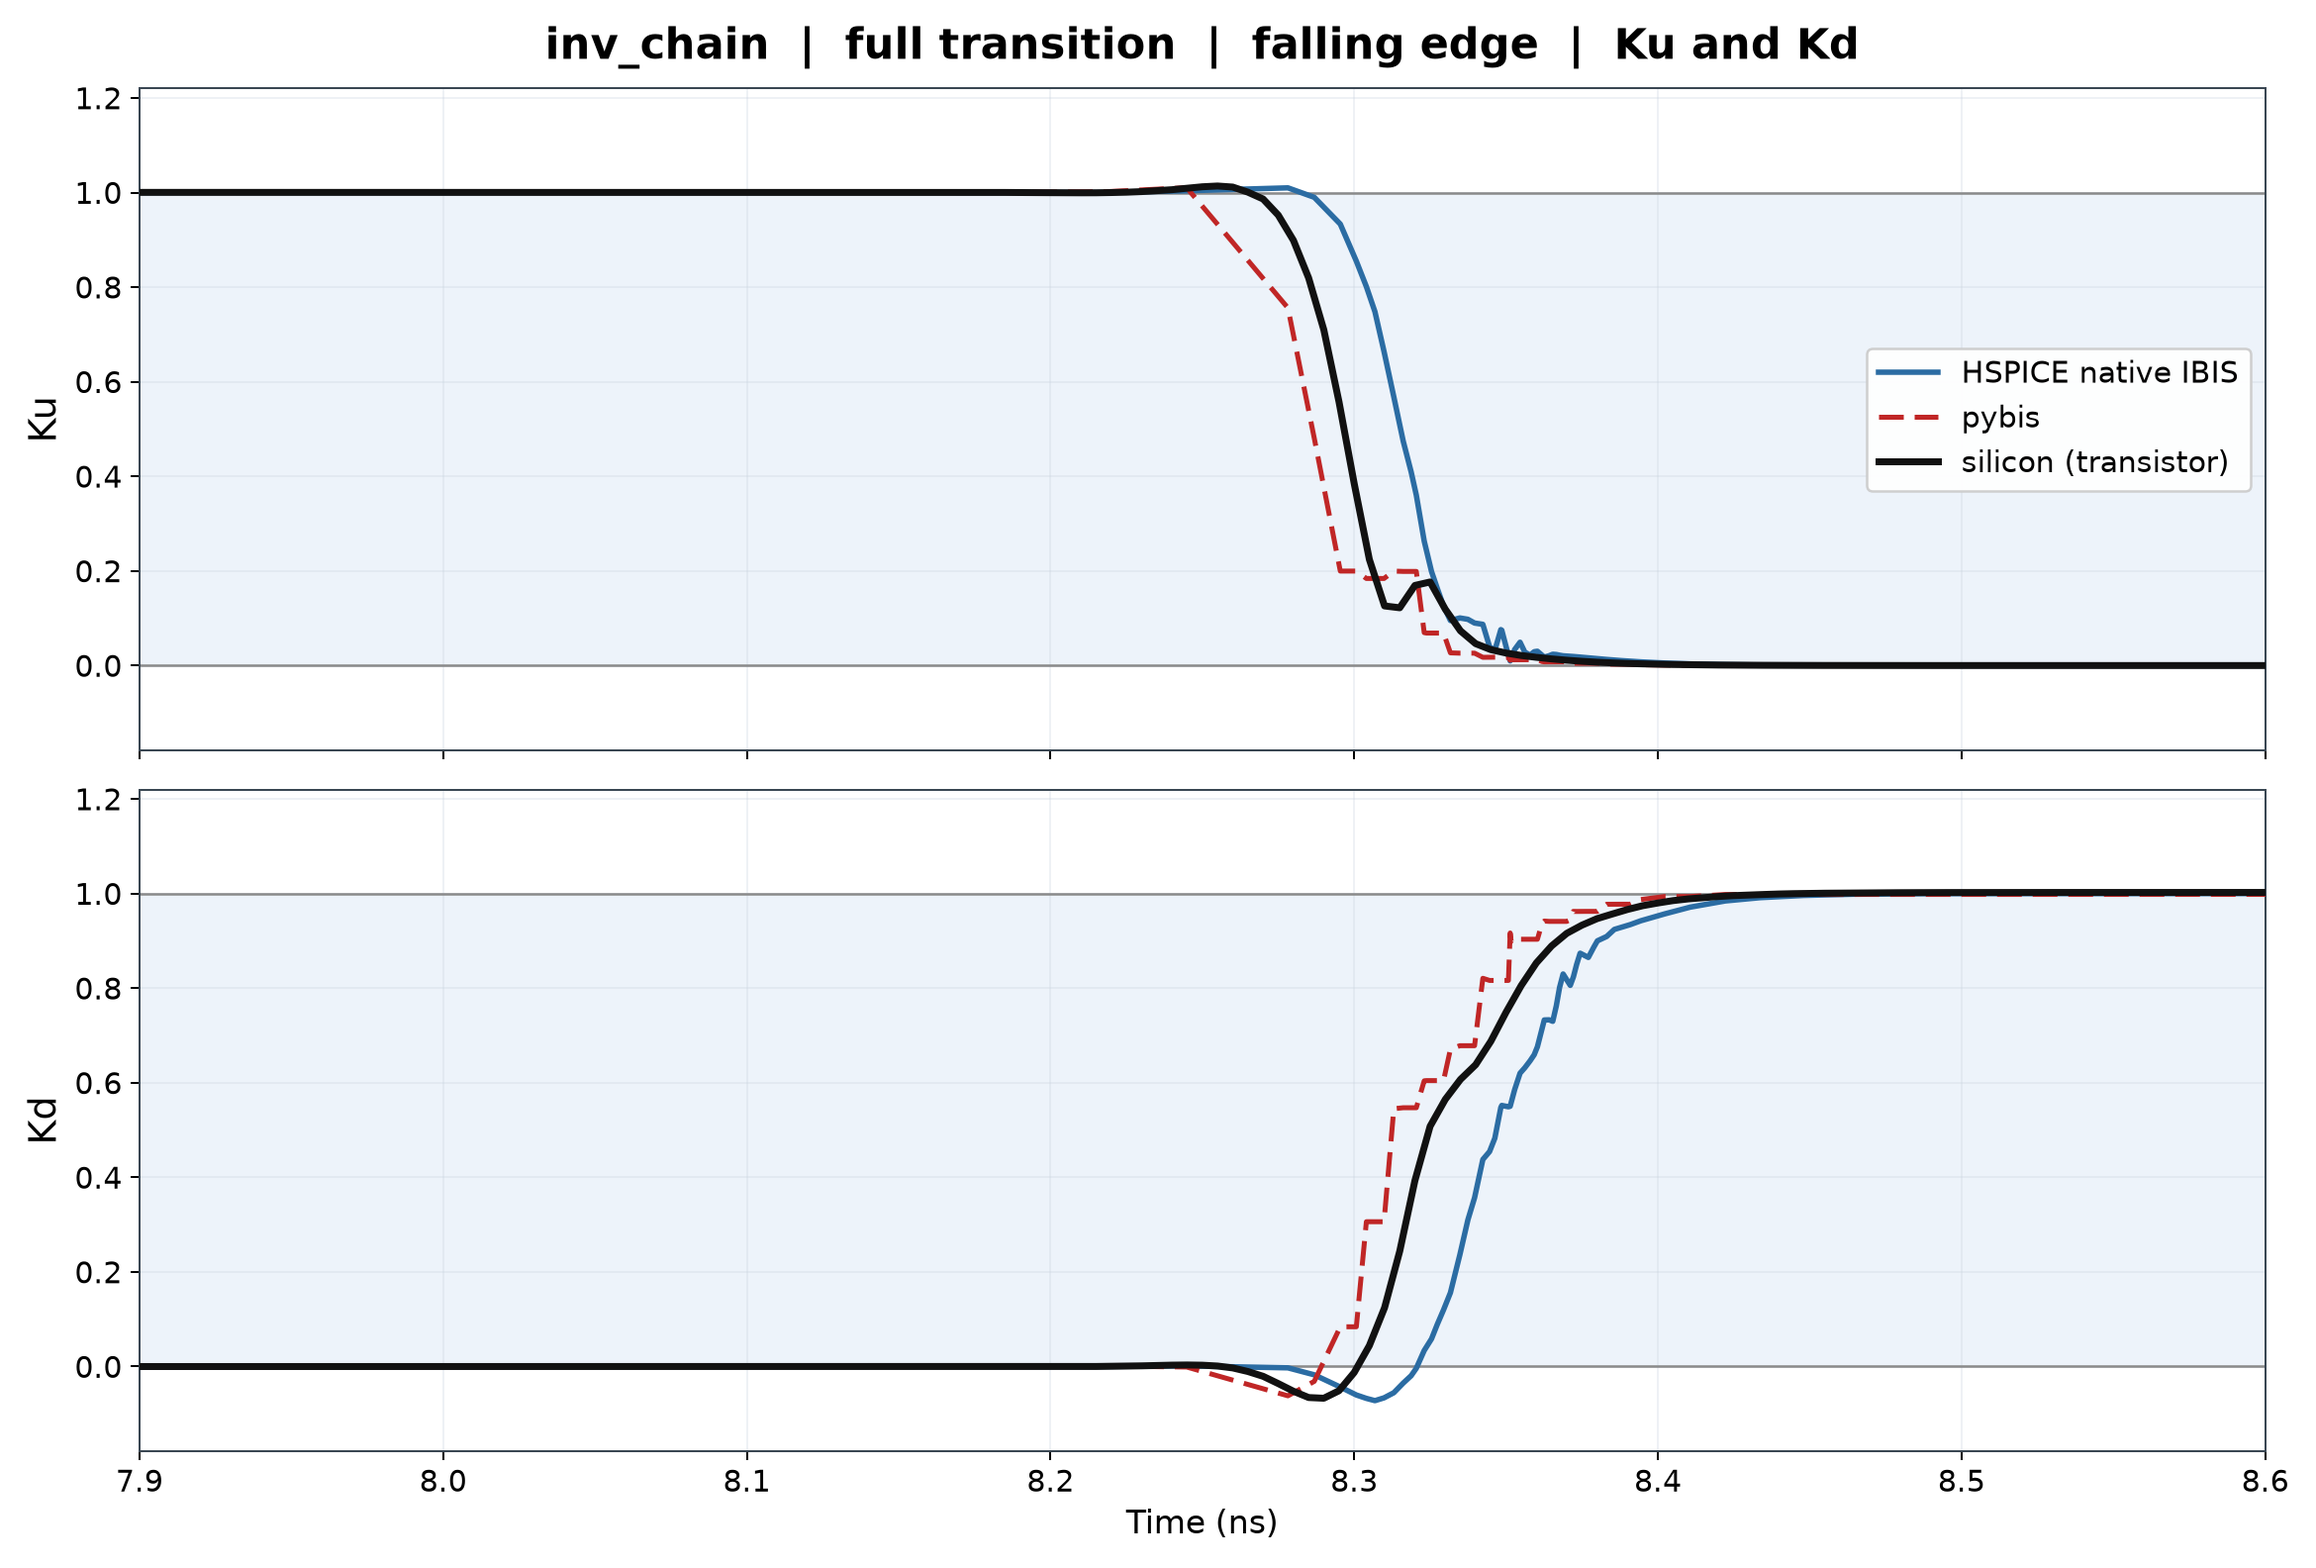
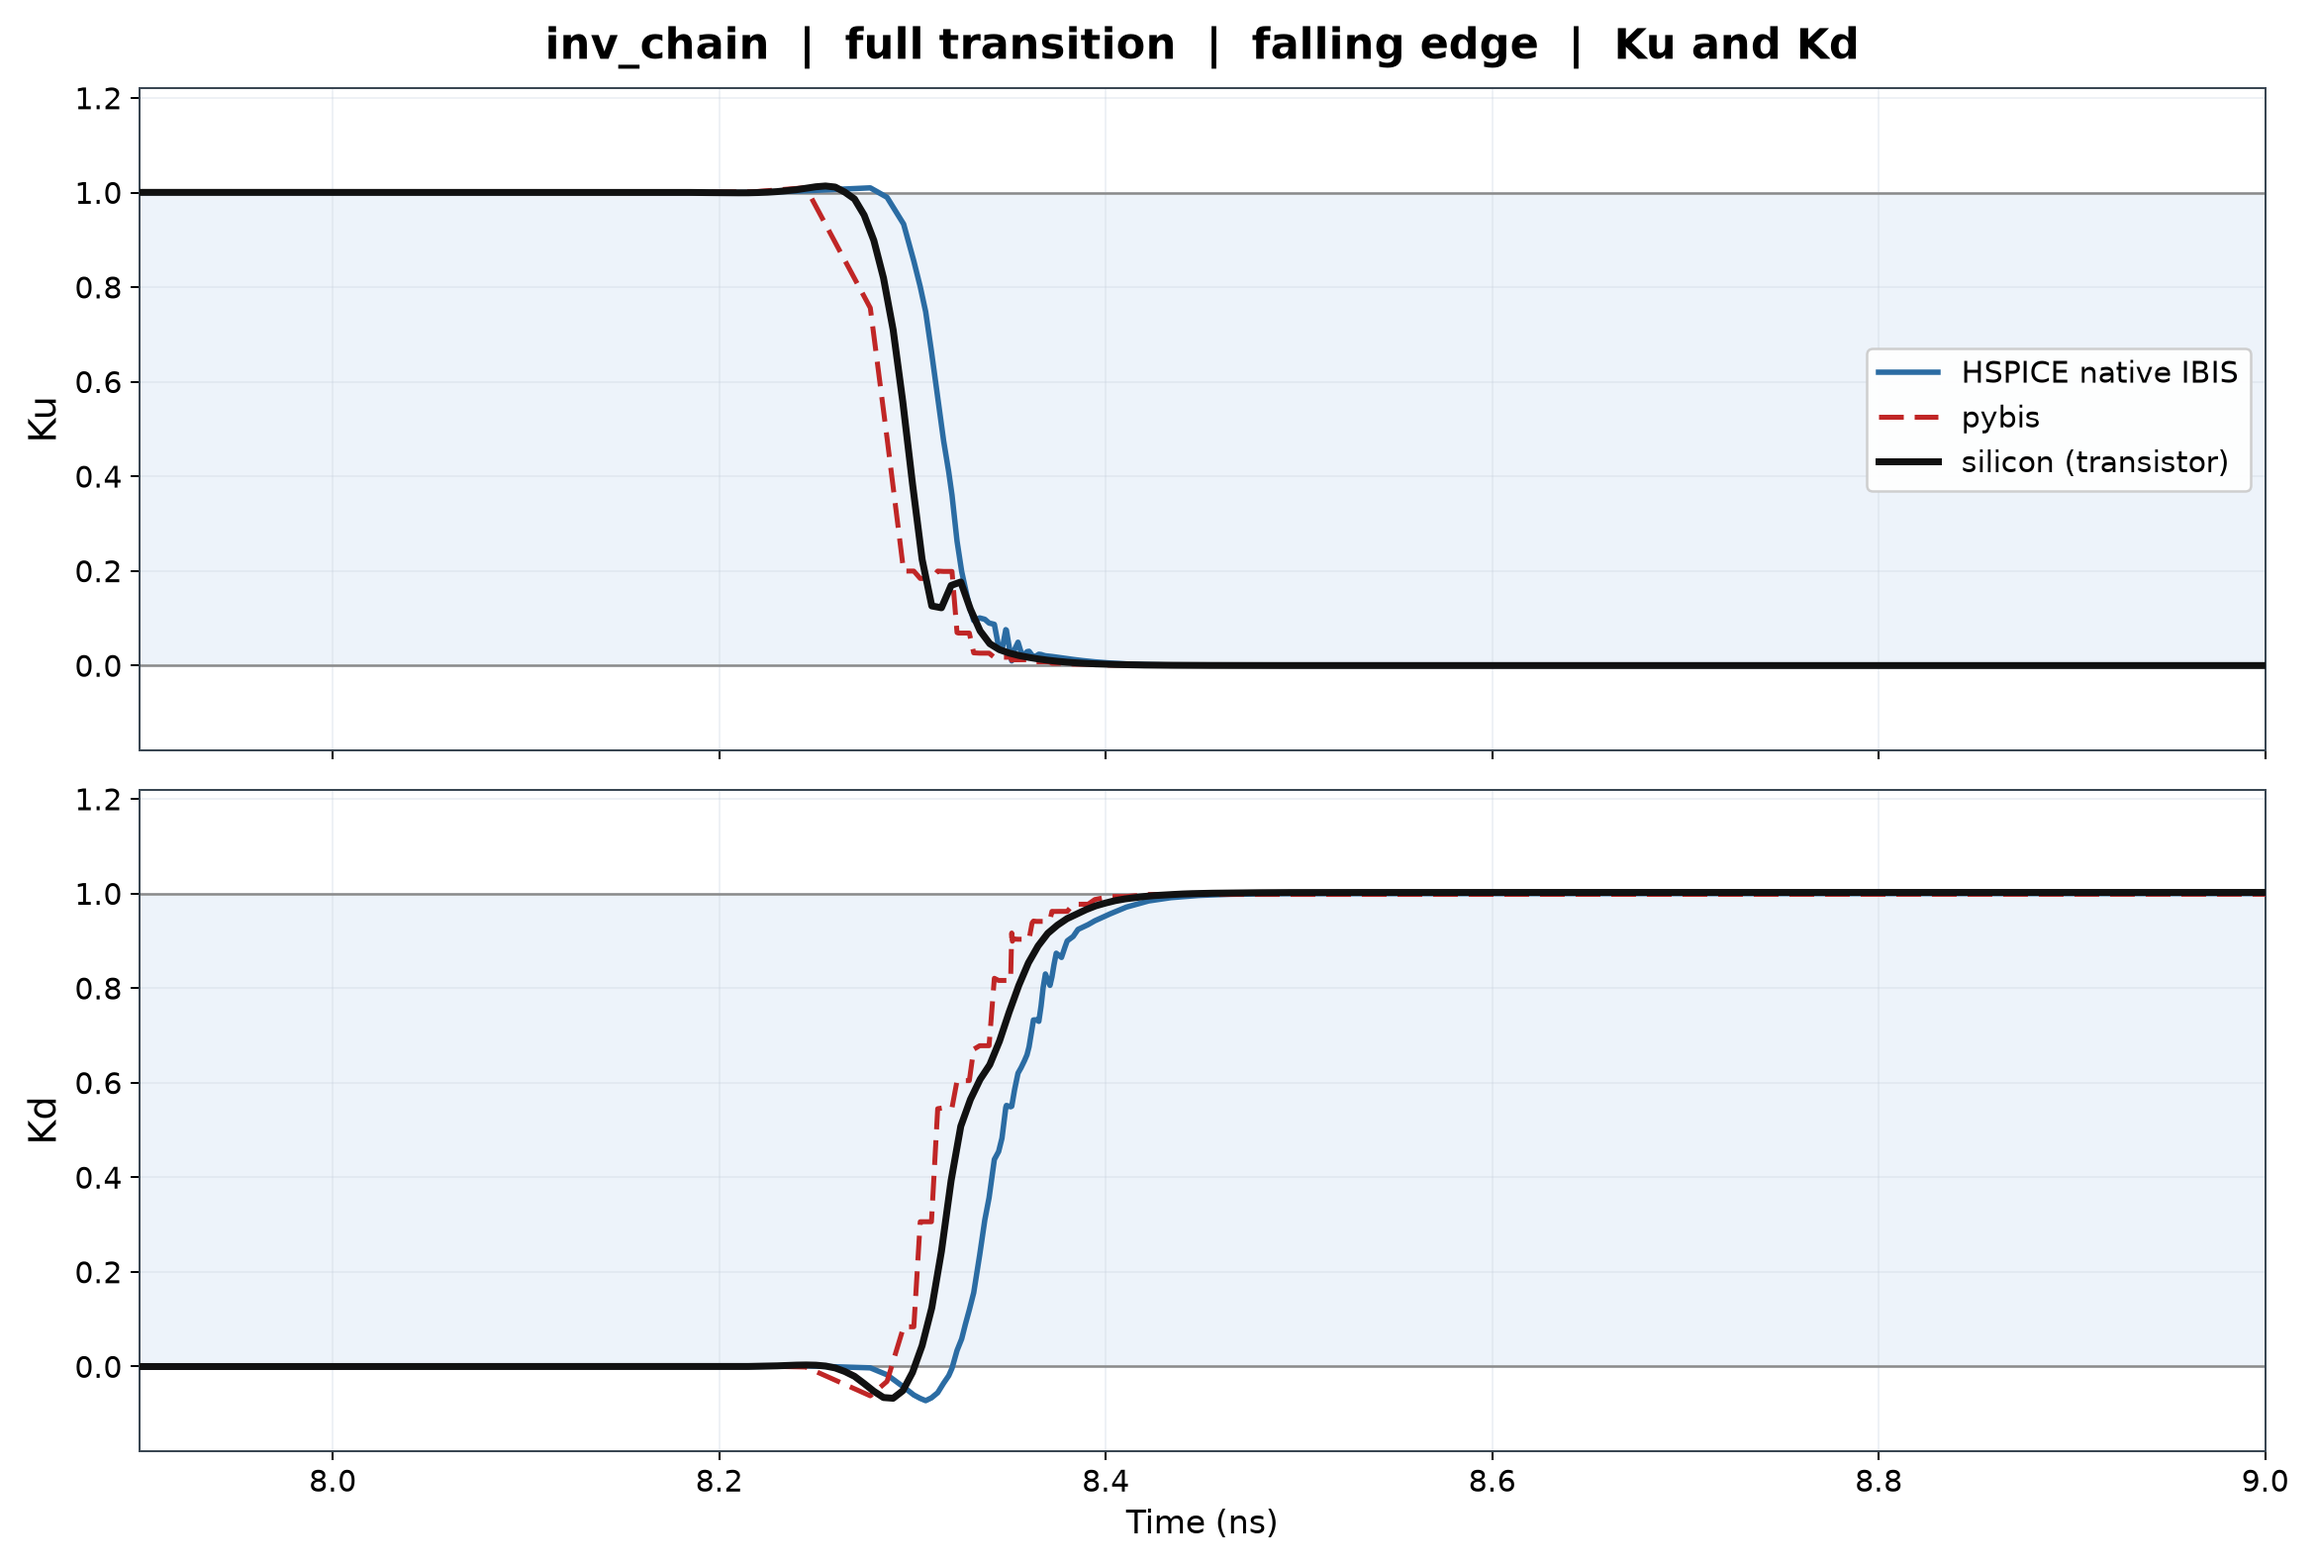
Dead-zone figure, and widen the falling-edge crops
The falling-edge close-ups were cropped to the Ku fall, which cut the Kd
rise off the right edge: io_buf turns the pullup off 0.068 ns after the
input falls and the pulldown on 1.831 ns after, so Kd does not move until
16.83 ns on a window that ended at 16.6.

That same asymmetry is what the new dead-zone figure is about. It also
corrects an earlier claim: the gap is not created by the transport-delay
command. Both formulations leave GDNTARGET at 0 for 1.26 ns after the
reversal. The shipped one merely happens to hold GUPTARGET at +0.036 of
stranded charge through it, which acts as an accidental keeper.

diff --git a/scripts/build_delay_cmd_dead_zone_figure.py b/scripts/build_delay_cmd_dead_zone_figure.py
@@ -1,0 +1,158 @@
+#!/usr/bin/env python3
+"""What the transport-delay command buys, and what it costs.
+
+`delay_cmd` is the "stop integrating a pulse" formulation: the command is a
+delayed copy of the input *level*, so it is exactly 0 or 1 at the rails by
+construction and cannot strand charge. It has the best pad RMSE in the study --
+92.2 mV over 30 stress cases, the only method to beat native IBIS.
+
+The cost is visible in the top two panels. io_buf turns its pullup *off*
+0.068 ns after the input falls but does not turn its pulldown *on* for
+1.831 ns. Two independently delayed levels therefore both read "off" for the
+1.25 ns in between, and the pad is left with no driver at all -- both
+coefficients go slightly negative and the node keeps only C_comp and the load.
+
+The shipped edge-integrating command is drawn alongside. It has no dead zone,
+because the pulldown command is a capacitor that was already charged; it pays
+for that with the stranded charge instead.
+
+    py -3.14 scripts/build_delay_cmd_dead_zone_figure.py
+"""
+from __future__ import annotations
+
+import argparse
+import csv
+import glob
+from pathlib import Path
+import sys
+
+ROOT = Path(__file__).resolve().parents[1]
+for q in (ROOT / ".codex_deps" / "presentation" / "python", ROOT / "scripts"):
+    sys.path.insert(0, str(q))
+
+import matplotlib
+
+matplotlib.use("Agg")
+import matplotlib.pyplot as plt  # noqa: E402
+import numpy as np  # noqa: E402
+
+from eye_diagram import parse_ngspice_raw  # noqa: E402
+
+MATRIX = ROOT / "results" / "stress_method_matrix_2026-08-20"
+OUT = ROOT / "results" / "settled_offset_diagnosis_2026-08-27"
+
+WIDTH_PS = 1792
+EDGE_NS = 5.0
+# The two fitted delays that create the gap, from the io_buf typical corner.
+PU_OFF_DELAY, PD_ON_DELAY = 0.0677, 1.8313
+
+DELAY_C = "#1B4F8F"
+SHIPPED_C = "#C05621"
+SILICON_C = "#111111"
+DEAD_C = "#D9534F"
+DPI = 175
+
+
+def raw(method: str):
+    hits = glob.glob(str(MATRIX / method / "ngspice_runs" / "io_buf" / "*" / "*" /
+                         "cases" / f"short_high_w{WIDTH_PS}ps_*" /
+                         "ngspice_gate_state" / "run.raw"))
+    if not hits:
+        return None
+    r = parse_ngspice_raw(Path(hits[0]))
+    k = {x.lower(): x for x in r}
+    d = {n[7:-1]: np.asarray(r[k[n]]) for n in k if n.startswith("v(xdrv.")}
+    d["pad"] = np.asarray(r[k["v(pad)"]])
+    d["rel_ns"] = np.asarray(r[k["time"]]) * 1e9 - (EDGE_NS + WIDTH_PS / 1000.0)
+    return d
+
+
+def silicon():
+    path = MATRIX / "hybrid" / "waveforms" / f"io_buf_short_high_w{WIDTH_PS}ps.csv"
+    rows = list(csv.reader(path.open(newline="", encoding="utf-8")))
+    values = np.array([[float(x) for x in r] for r in rows[1:]])
+    d = {name: values[:, i] for i, name in enumerate(rows[0])}
+    d["rel_ns"] = d["time_ns"] - (EDGE_NS + WIDTH_PS / 1000.0)
+    return d
+
+
+def dead_zone(d):
+    """The span where neither coefficient is meaningfully on."""
+    m = (d["rel_ns"] > 0) & (d["rel_ns"] < 3.0) & (d["ku"] < 0.02) & (d["kd"] < 0.02)
+    if not m.any():
+        return None
+    return float(d["rel_ns"][m][0]), float(d["rel_ns"][m][-1])
+
+
+def style(axis, label, ylim):
+    axis.axhline(0.0, color="#5A5A5A", lw=1.1)
+    axis.axvline(0.0, color="#8A8A8A", ls="--", lw=1.5)
+    axis.set_ylim(*ylim)
+    axis.set_xlim(-0.3, 4.5)
+    axis.grid(alpha=0.28, color="#C9D3DE", lw=0.8)
+    axis.tick_params(labelsize=11.5)
+    for spine in axis.spines.values():
+        spine.set_color("#3A4753")
+    axis.set_ylabel(label, fontsize=13.5)
+
+
+def main() -> int:
+    parser = argparse.ArgumentParser(description=__doc__,
+                                     formatter_class=argparse.RawDescriptionHelpFormatter)
+    parser.add_argument("--out", type=Path, default=OUT)
+    args = parser.parse_args()
+    out = args.out if args.out.is_absolute() else ROOT / args.out
+    out.mkdir(parents=True, exist_ok=True)
+
+    delay, shipped, sil = raw("delay_cmd"), raw("hybrid"), silicon()
+    if delay is None or shipped is None:
+        print("missing runs")
+        return 1
+    span = dead_zone(delay)
+
+    panels = [("guptarget", "GUPTARGET\npullup command", (-0.05, 1.1)),
+              ("gdntarget", "GDNTARGET\npulldown command", (-0.05, 1.1)),
+              ("ku", "Ku", (-0.08, 0.35)),
+              ("kd", "Kd", (-0.15, 1.1)),
+              ("pad", "Pad voltage (V)", (-0.05, 1.0))]
+
+    fig, axes = plt.subplots(len(panels), 1, figsize=(12.6, 14.0), sharex=True)
+    for axis, (node, label, ylim) in zip(axes, panels):
+        if span:
+            axis.axvspan(*span, color=DEAD_C, alpha=0.14, lw=0, zorder=0)
+        if node == "pad":
+            axis.plot(sil["rel_ns"], sil["silicon_pad"], color=SILICON_C, lw=3.4,
+                      label="HSPICE transistor", zorder=2)
+        axis.plot(shipped["rel_ns"], shipped[node], color=SHIPPED_C, lw=2.6,
+                  label="edge-integrating command (shipped)", zorder=3)
+        axis.plot(delay["rel_ns"], delay[node], color=DELAY_C, lw=2.2,
+                  ls=(0, (5, 2.2)), label="transport-delay command", zorder=4)
+        style(axis, label, ylim)
+    axes[0].legend(fontsize=11.5, loc="center right", framealpha=0.94)
+    axes[4].legend(fontsize=11.5, loc="upper right", framealpha=0.94)
+    axes[-1].set_xlabel("Time from the reversal (ns)", fontsize=13)
+    fig.suptitle(f"io_buf  |  short high  |  {WIDTH_PS} ps  |  "
+                 "the transport-delay command and its dead zone",
+                 fontsize=17, fontweight="bold")
+    fig.tight_layout(rect=(0, 0, 1, 0.978))
+    fig.savefig(out / "05_delay_cmd_dead_zone.png", dpi=DPI)
+    plt.close(fig)
+
+    print(f"io_buf short high {WIDTH_PS} ps")
+    print(f"  fitted delays: pu_off {PU_OFF_DELAY:.4f} ns, pd_on {PD_ON_DELAY:.4f} ns"
+          f"  -> gap {PD_ON_DELAY - PU_OFF_DELAY:.3f} ns")
+    if span:
+        print(f"  measured dead zone: +{span[0]:.3f} to +{span[1]:.3f} ns "
+              f"({span[1] - span[0]:.3f} ns wide)")
+        m = (delay["rel_ns"] >= span[0]) & (delay["rel_ns"] <= span[1])
+        print(f"    inside it: Ku {delay['ku'][m].min():+.4f} to {delay['ku'][m].max():+.4f},"
+              f"  Kd {delay['kd'][m].min():+.4f} to {delay['kd'][m].max():+.4f}")
+    for name, d in (("edge-integrating", shipped), ("transport-delay", delay)):
+        hold = (d["rel_ns"] >= 2.60) & (d["rel_ns"] <= 2.95)
+        print(f"  {name:<18} settled GUPTARGET {d['guptarget'][hold].mean():+.5f}")
+    print(f"\nwrote {out.resolve()}\\05_delay_cmd_dead_zone.png")
+    return 0
+
+
+if __name__ == "__main__":
+    raise SystemExit(main())

diff --git a/scripts/build_kukd_edge_closeups.py b/scripts/build_kukd_edge_closeups.py
@@ -39,11 +39,17 @@ PYBIS = "#C02626"
 DPI = 180
 
 # device, comparison csv, silicon csv, rising window, falling window
+#
+# A window has to hold *both* coefficients, not just the one the edge is named
+# after. io_buf turns its pullup off 0.068 ns after the input falls but does not
+# turn the pulldown on for 1.831 ns, so a window cropped to the Ku fall cuts the
+# Kd rise off the right-hand side entirely. The same asymmetry is what opens the
+# dead zone in the transport-delay command.
 CASES = [
     ("io_buf", INTRO / "io_buf_short_high_w10000ps.csv",
-     SILICON_DIR / "io_buf_full_transition.csv", (4.85, 9.5), (14.90, 16.6)),
+     SILICON_DIR / "io_buf_full_transition.csv", (4.85, 9.5), (14.85, 18.6)),
     ("inv_chain", INTRO / "inv_chain_short_high_w3000ps.csv",
-     SILICON_DIR / "inv_chain_full_transition.csv", (4.90, 6.2), (7.90, 8.6)),
+     SILICON_DIR / "inv_chain_full_transition.csv", (4.90, 6.2), (7.90, 9.0)),
 ]
 
 
